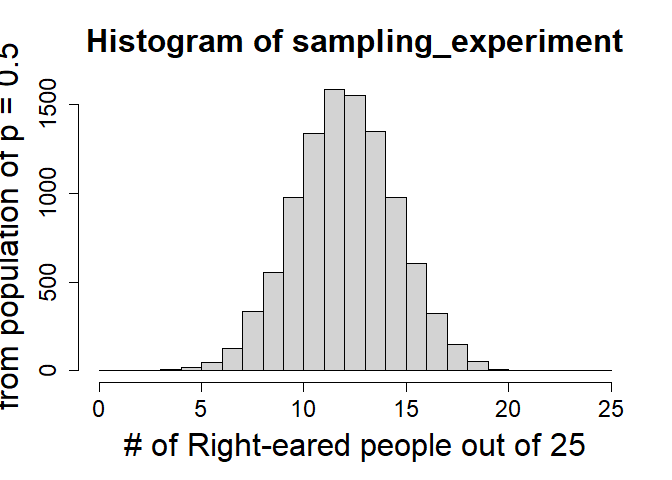
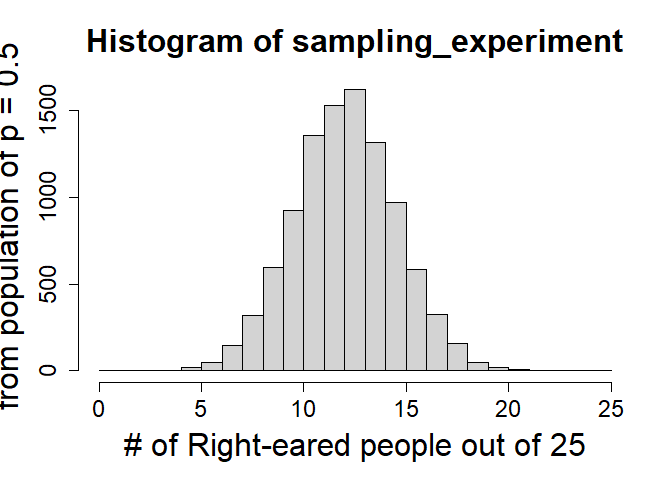
updating assignment 3

diff --git a/assignment_code/assignment_code_BIO_ENV_2100/3._Introduction_to_hypothesis_testing_via_binomial_test_answers.md b/assignment_code/assignment_code_BIO_ENV_2100/3._Introduction_to_hypothesis_testing_via_binomial_test_answers.md
@@ -29,9 +29,10 @@ Remember you should
 
 <!-- end list -->
 
-  - state a null and alternative hypothesis H<sub>o</sub>: proportion of
-    right-eared people is equal to .5 H<sub>a</sub>: proportion of
-    right-eared people is note equal to .5
+  - state a null and alternative hypothesis
+      - *H<sub>o</sub>: proportion of right-eared people is equal to .5*
+      - *H<sub>a</sub>: proportion of right-eared people is note equal
+        to .5*
   - calculate a test statistic (signal) for this data
 
 <!-- end list -->
@@ -41,6 +42,8 @@ Remember you should
 ```
 
     ## [1] 0.76
+
+*The signal from the data is the proportion of right-eared people 0.76*
 
   - Make you understand how to construct a null distribution
       - using sampling/simulation (code or written explanation)
@@ -84,15 +87,22 @@ plot(0:25, using_distribution)
 
 ![](3._Introduction_to_hypothesis_testing_via_binomial_test_answers_files/figure-gfm/unnamed-chunk-3-1.png)<!-- -->
 
-\*Calculate and compare p-values obtained using + simulation
-(calculation won’t be required on test, but make sure you understand\!)
-(code or written explanation)
+*Each of these show the expected distribution of signal under the null
+hypothesis. Note this implies multiple samples are taken. This is theory
+that underlies NHST (null hypothesis significance testing) and
+definition of p-value (coming up\!).*
+
+  - Calculate and compare p-values obtained using
+      - simulation (calculation won’t be required on test, but make sure
+        you understand\!) (code or written explanation)
+
+<!-- end list -->
 
 ``` r
 length(sampling_experiment[sampling_experiment >= 19 | sampling_experiment <= 6])/length(sampling_experiment)
 ```
 
-    ## [1] 0.0134
+    ## [1] 0.0146
 
   - equations for binomial distribution (code or written explanation)
 
@@ -123,6 +133,10 @@ binom.test(19,25, p=.5)
     ## sample estimates:
     ## probability of success 
     ##                   0.76
+
+*Note we can calculate a p-value using the simulated distribution, the
+actual distribution (which is exact in this case), and the test (which
+is usign the actual distribution\!).*
 
   - Calculate a 95% confidence interval for the proportion of people who
     are right-eared
@@ -155,11 +169,13 @@ binom.confint(x=19, n=25, alpha=.05, method="agresti-coull")
     ##          method  x  n mean     lower     upper
     ## 1 agresti-coull 19 25 0.76 0.5624805 0.8882596
 
-*Our 95% CI is .562 - .888. Note it does not include .5\!* \* How do
-your 95% confidence interval and hypothesis test compare? *The p-value
-from all methods are \<.05, so I reject the null hypothesis that the
-proportion of right-eared people is equal to .5. The 95% 5% CI is .562 -
-.888. Note it does not include .5\!*
+*Our 95% CI is .562 - .888. Note it does not include .5\!*
+
+  - How do your 95% confidence interval and hypothesis test compare?
+
+*The p-value from all methods are \<.05, so I reject the null hypothesis
+that the proportion of right-eared people is equal to .5. The 95% 5% CI
+is .562 - .888. Note it does not include .5\!*
 
 2.  A professor lets his dog take every multiple-choice test to see how
     it compares to his students (I know someone who did this).
@@ -229,19 +245,19 @@ source("https://raw.githubusercontent.com/jsgosnell/CUNY-BioStats/master/code_ex
 monty(strat="stay", print_games=F)
 ```
 
-    ## Using the stay strategy, your win percentage was 31.5%
+    ## Using the stay strategy, your win percentage was 31.6%
 
 ``` r
 monty(strat="switch", print_games=F)
 ```
 
-    ## Using the switch strategy, your win percentage was 68%
+    ## Using the switch strategy, your win percentage was 65.1%
 
 ``` r
 monty(strat="random", print_games=F)
 ```
 
-    ## Using the random strategy, your win percentage was 51.3%
+    ## Using the random strategy, your win percentage was 49.4%
 
 5.  Setup the Monty Hall problem as probabilities and convince yourself
     how it works. You may want to remember to think about prior and new
@@ -285,3 +301,7 @@ triplot(prior = c(4,2), data = c(14,4), where = "topleft")
 ```
 
 ![](3._Introduction_to_hypothesis_testing_via_binomial_test_answers_files/figure-gfm/unnamed-chunk-10-4.png)<!-- -->
+*This is the “big picture” of Bayesian analysis. We combined our prior
+beliefs and data to update our beliefs (the posterior). We
+sample/describe the posterior for our answer. Everything else is “how do
+we do that?”.*
